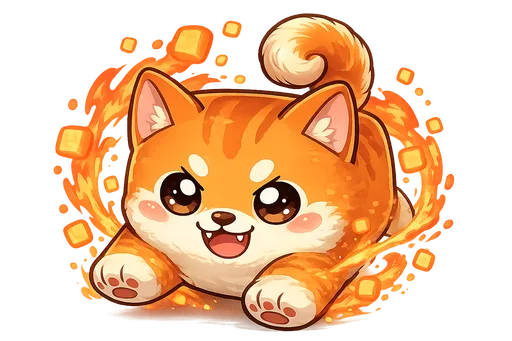
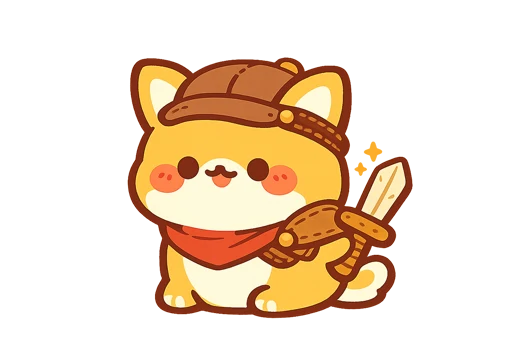
dogs: 犬系三階進化(2★→4★ 新美術)+貓第四階暫藏(EVO3_ENABLED gate)

diff --git a/public/play/index.html b/public/play/index.html
@@ -81,14 +81,14 @@
     const KEYS = ['fire', 'wind', 'thunder', 'earth', 'water'];
     const MONSTER_IMG = { water: 'art/monsters/slime_water.webp', fire: 'art/monsters/slime_fire.webp', thunder: 'art/monsters/slime_thunder.webp', earth: 'art/monsters/slime_earth.webp', wind: 'art/monsters/slime_wind.webp' };   // 舊五屬史萊姆(fallback);無對應則用 emoji 臉。圖檔放 001_website/art/monsters/(webp)
     const CARD_ART = { c03: 1, c06: 1, c19: 1, c10: 1, c12: 1, c02: 1, c05: 1, c08: 1, c09: 1, c11: 1, c13: 1, c16: 1, c20: 1, c23: 1, c27: 1, c15: 1, c18: 1, c22: 1, c26: 1, c30: 1, c31: 1, c32: 1, c33: 1, c34: 1, c35: 1, c14: 1, c17: 1, c21: 1, c24: 1, c28: 1, c01: 1, c04: 1, c07: 1, c25: 1, c29: 1, c36: 1, c37: 1, c38: 1, c39: 1, c40: 1, c41: 1, c42: 1, c43: 1, c44: 1, c45: 1, c46: 1, c47: 1, c48: 1, c49: 1, c50: 1, c51: 1, c52: 1, c53: 1, c54: 1, c55: 1, c56: 1, c57: 1, c58: 1, c59: 1, c60: 1, c61: 1, c62: 1, c63: 1, c64: 1, c65: 1, c66: 1, c67: 1, c68: 1, c69: 1, c70: 1, c71: 1, c72: 1, c73: 1, c74: 1, c75: 1, c76: 1 };   // 有角色圖的卡:犬/貓/鼠/台灣/兔/魚(c14,17,21,24,28)/鳥(c01,04,07,25,29)/妖·蜘蛛(c36-c40,1→2星換_e圖)/妖·鬼(c41-c45,1→2星換_e圖),各火水雷土風 → art/cards/<id>_thumb.webp+_full.webp;2026-08-02 加方塊怪(c66-c70,支援_e/_e2)+金屬/金錢(c71-c76,無_e/_e2,只有 base full/thumb)
-    function cardArtKey(id, size, ovEvo) { if (!id) return null; const t = getCardEvo(id, ovEvo); if (EVO3_CARDS[id] && t >= 3) return 'card_' + id + '_e3_' + size; if ((EVO2_CARDS[id] || EVO3_CARDS[id]) && t >= 2) return 'card_' + id + '_e2_' + size; if ((EVO_CARDS[id] || EVO3_CARDS[id]) && t >= 1) return 'card_' + id + '_e_' + size; return CARD_ART[id] ? ('card_' + id + '_' + size) : null; }   // 回傳 texture key(thumb/full),無圖回 null→退回 emoji;進化雜牌卡 evo≥2(EVO2_CARDS)→<id>_e2_<size>,evo≥1→<id>_e_<size>
-    function _loadCardArt(scene, ids) { (ids || []).forEach(id => { if (!id || !CARD_ART[id]) return;['thumb', 'full'].forEach(s => { const k = 'card_' + id + '_' + s; if (!scene.textures.exists(k)) scene.load.image(k, 'art/cards/' + id + '_' + s + '.webp'); }); if (EVO_CARDS[id] || EVO3_CARDS[id]) { ['thumb', 'full'].forEach(s => { const k = 'card_' + id + '_e_' + s; if (!scene.textures.exists(k)) scene.load.image(k, 'art/cards/' + id + '_e_' + s + '.webp'); }); } if (EVO2_CARDS[id] || EVO3_CARDS[id]) { ['thumb', 'full'].forEach(s => { const k = 'card_' + id + '_e2_' + s; if (!scene.textures.exists(k)) scene.load.image(k, 'art/cards/' + id + '_e2_' + s + '.webp'); }); } if (EVO3_CARDS[id]) { ['thumb', 'full'].forEach(s => { const k = 'card_' + id + '_e3_' + s; if (!scene.textures.exists(k)) scene.load.image(k, 'art/cards/' + id + '_e3_' + s + '.webp'); }); } }); }   // 按需載卡圖(戰鬥/大廳只載出戰隊);繪製端皆有 textures.exists 保護→沒載到退回 emoji;進化雜牌卡額外多載 _e 進化圖(兩形都要有),支援 evo2(EVO2_CARDS)再多載 _e2 三形
+    function cardArtKey(id, size, ovEvo) { if (!id) return null; const t = getCardEvo(id, ovEvo); if (EVO3_CARDS[id] && t >= 3) return 'card_' + id + '_e3_' + size; if ((EVO2_CARDS[id] || EVO3_CARDS[id] || EVO2_ART_CARDS[id]) && t >= 2) return 'card_' + id + '_e2_' + size; if ((EVO_CARDS[id] || EVO3_CARDS[id] || EVO2_ART_CARDS[id]) && t >= 1) return 'card_' + id + '_e_' + size; return CARD_ART[id] ? ('card_' + id + '_' + size) : null; }   // 回傳 texture key(thumb/full),無圖回 null→退回 emoji;進化雜牌卡 evo≥2(EVO2_CARDS)→<id>_e2_<size>,evo≥1→<id>_e_<size>
+    function _loadCardArt(scene, ids) { (ids || []).forEach(id => { if (!id || !CARD_ART[id]) return;['thumb', 'full'].forEach(s => { const k = 'card_' + id + '_' + s; if (!scene.textures.exists(k)) scene.load.image(k, 'art/cards/' + id + '_' + s + '.webp'); }); if (EVO_CARDS[id] || EVO3_CARDS[id] || EVO2_ART_CARDS[id]) { ['thumb', 'full'].forEach(s => { const k = 'card_' + id + '_e_' + s; if (!scene.textures.exists(k)) scene.load.image(k, 'art/cards/' + id + '_e_' + s + '.webp'); }); } if (EVO2_CARDS[id] || EVO3_CARDS[id] || EVO2_ART_CARDS[id]) { ['thumb', 'full'].forEach(s => { const k = 'card_' + id + '_e2_' + s; if (!scene.textures.exists(k)) scene.load.image(k, 'art/cards/' + id + '_e2_' + s + '.webp'); }); } if (EVO3_CARDS[id]) { ['thumb', 'full'].forEach(s => { const k = 'card_' + id + '_e3_' + s; if (!scene.textures.exists(k)) scene.load.image(k, 'art/cards/' + id + '_e3_' + s + '.webp'); }); } }); }   // 按需載卡圖(戰鬥/大廳只載出戰隊);繪製端皆有 textures.exists 保護→沒載到退回 emoji;進化雜牌卡額外多載 _e 進化圖(兩形都要有),支援 evo2(EVO2_CARDS)再多載 _e2 三形
     function _loadAllCardArt(scene) { _loadCardArt(scene, Object.keys(CARD_ART)); }   // 卡冊/編隊/合成/圖鑑=看全部卡→進場才載全部
-    function _loadCardThumbs(scene, ids) { (ids || []).forEach(id => { if (!id || !CARD_ART[id]) return; const k = 'card_' + id + '_thumb'; if (!scene.textures.exists(k)) scene.load.image(k, 'art/cards/' + id + '_thumb.webp'); if (EVO_CARDS[id] || EVO3_CARDS[id]) { const ek = 'card_' + id + '_e_thumb'; if (!scene.textures.exists(ek)) scene.load.image(ek, 'art/cards/' + id + '_e_thumb.webp'); } if (EVO2_CARDS[id] || EVO3_CARDS[id]) { const ek2 = 'card_' + id + '_e2_thumb'; if (!scene.textures.exists(ek2)) scene.load.image(ek2, 'art/cards/' + id + '_e2_thumb.webp'); } if (EVO3_CARDS[id]) { const ek3 = 'card_' + id + '_e3_thumb'; if (!scene.textures.exists(ek3)) scene.load.image(ek3, 'art/cards/' + id + '_e3_thumb.webp'); } }); }   // 只載縮圖(格子用;大圖等開詳情才補);進化雜牌卡額外多載 _e_thumb(卡冊/合成/圖鑑格子才有進化縮圖),evo2(EVO2_CARDS)再多載 _e2_thumb
+    function _loadCardThumbs(scene, ids) { (ids || []).forEach(id => { if (!id || !CARD_ART[id]) return; const k = 'card_' + id + '_thumb'; if (!scene.textures.exists(k)) scene.load.image(k, 'art/cards/' + id + '_thumb.webp'); if (EVO_CARDS[id] || EVO3_CARDS[id] || EVO2_ART_CARDS[id]) { const ek = 'card_' + id + '_e_thumb'; if (!scene.textures.exists(ek)) scene.load.image(ek, 'art/cards/' + id + '_e_thumb.webp'); } if (EVO2_CARDS[id] || EVO3_CARDS[id] || EVO2_ART_CARDS[id]) { const ek2 = 'card_' + id + '_e2_thumb'; if (!scene.textures.exists(ek2)) scene.load.image(ek2, 'art/cards/' + id + '_e2_thumb.webp'); } if (EVO3_CARDS[id]) { const ek3 = 'card_' + id + '_e3_thumb'; if (!scene.textures.exists(ek3)) scene.load.image(ek3, 'art/cards/' + id + '_e3_thumb.webp'); } }); }   // 只載縮圖(格子用;大圖等開詳情才補);進化雜牌卡額外多載 _e_thumb(卡冊/合成/圖鑑格子才有進化縮圖),evo2(EVO2_CARDS)再多載 _e2_thumb
     function _loadAllCardThumbs(scene) { _loadCardThumbs(scene, Object.keys(CARD_ART)); }
     function _ensureFullArt(scene, id, onReady, ovEvo) {   // 開卡片詳情才補「大圖」:沒載到就載,載好回呼(通常重繪);已有則不動;進化後改補 _e_full/_e2_full(與 cardArtKey 回傳的 key 對齊);🆕ovEvo=個體制傳入該個體自己的進化階,不傳=舊行為(type-level 快取)
       const t = getCardEvo(id, ovEvo);
-      const suf = (id && EVO3_CARDS[id] && t >= 3) ? '_e3_full' : (id && (EVO2_CARDS[id] || EVO3_CARDS[id]) && t >= 2) ? '_e2_full' : (id && (EVO_CARDS[id] || EVO3_CARDS[id]) && t >= 1) ? '_e_full' : '_full';
+      const suf = (id && EVO3_CARDS[id] && t >= 3) ? '_e3_full' : (id && (EVO2_CARDS[id] || EVO3_CARDS[id] || EVO2_ART_CARDS[id]) && t >= 2) ? '_e2_full' : (id && (EVO_CARDS[id] || EVO3_CARDS[id] || EVO2_ART_CARDS[id]) && t >= 1) ? '_e_full' : '_full';
       const k = (id && CARD_ART[id]) ? ('card_' + id + suf) : null;
       if (!k || scene.textures.exists(k)) return;
       scene.load.image(k, 'art/cards/' + id + suf + '.webp'); scene.load.once('complete', onReady);
@@ -340,7 +340,7 @@
       if (opt.manage) {
         gpill(CX - 118, H - 52, 110, 52, tr('⬆ 強化'), tint(elc, 0.3), elc, '#ffffff', FS.cap, () => opt.onFuse && opt.onFuse());   // 屬色漸層(上亮下深,寶可夢式)
         // 進化鈕:滿 LV20 且還能進化 → 金色漸層(可動作);未滿 LV20 / 已達進化上限 / 素材卡 → 灰階。仍可點,點了由 canEvolve 跳原因 toast
-        const _evoCap = EVO3_CARDS[cd.id] ? 3 : (EVO2_CARDS[cd.id] ? 2 : (EVO_CARDS[cd.id] ? 1 : EVO_MAX));   // 對齊 canEvolve 的上限判斷(哥布林/賊鴨/鐵機人/史萊姆醫療/牆怪系 evo2=3星,貓系 EVO3_CARDS=evo3/5星,其餘雜牌系 evo1=2星封頂)
+        const _evoCap = (EVO3_ENABLED && EVO3_CARDS[cd.id]) ? 3 : (EVO2_CARDS[cd.id] ? 2 : (EVO_CARDS[cd.id] ? 1 : EVO_MAX));   // 對齊 canEvolve 的上限判斷(哥布林/賊鴨/鐵機人/史萊姆醫療/牆怪系 evo2=3星,貓系 EVO3_CARDS=evo3/5星,其餘雜牌系 evo1=2星封頂)
         const _evoLit = mx && !MATERIAL_IDS.has(cd.id) && getCardEvo(cd.id, opt.ovEvo) < _evoCap;   // 帶 opt.ovEvo:個體檢視時金/灰狀態跟這張個體,與 canEvolve 實際判定一致(verifier 2026-09-25 抓的顯示不一致)
         gpill(CX, H - 52, 110, 52, tr('✨ 進化'), _evoLit ? 0xffe9a8 : 0xe4e0d8, _evoLit ? 0xd9932a : 0xb8b0a4, _evoLit ? '#4a2c05' : '#8a8378', FS.cap, () => opt.onEvolve && opt.onEvolve(), 'ui_evo');
         pill(CX + 118, H - 52, 110, 52, tr('✖ 關閉'), TK.surf, TK.divider, TK.ink2, FS.cap, () => opt.onClose && opt.onClose());
@@ -486,7 +486,7 @@
     // 各敵圖「角色實體」在 320 畫布的高度佔比 h 與底緣 bottom(量測值)。渲染時改以「實體高度」對齊→不同圖體型一致;bottom 用來對齊腳底基準線。魔王再乘 BOSS_MUL 刻意略大。
     const ENEMY_FIT = { grunt: { h: 0.65, bottom: 0.867 }, grunt2: { h: 0.65, bottom: 0.867 }, guard: { h: 0.69, bottom: 0.869 }, caster: { h: 0.72, bottom: 0.867 }, boss_baby: { h: 0.65, bottom: 0.867 }, boss_beg: { h: 0.69, bottom: 0.869 }, boss_nrm: { h: 0.88, bottom: 0.902 } };   // caster 略含尖帽→h 高一點
     // 🦶2026-10-14 腳底偏移表(card_*_full 實際最底不透明列 / 圖高;art/feet-offsets.json 由 scratchpad/scan-feet.cjs 產生並內嵌於此,重跑腳本 --inject 即更新):fitEnemySprite 用它讓「實際腳底」落在地面線,不再各圖留白不同而高低不齊
-    const ENEMY_FEET_PAD = /*FEET-BEGIN*/{"card_c01_full":0.059,"card_c02_e2_full":0.046,"card_c02_e3_full":0.057,"card_c02_e_full":0.058,"card_c02_full":0.063,"card_c03_full":0.026,"card_c04_full":0.047,"card_c05_e2_full":0.06,"card_c05_e3_full":0.036,"card_c05_e_full":0.064,"card_c05_full":0.061,"card_c06_full":0.032,"card_c07_full":0.044,"card_c08_e2_full":0.051,"card_c08_e3_full":0.064,"card_c08_e_full":0.047,"card_c08_full":0.049,"card_c09_e2_full":0.032,"card_c09_e3_full":0.003,"card_c09_e_full":0.046,"card_c09_full":0.038,"card_c10_full":0.018,"card_c11_e2_full":0.074,"card_c11_e3_full":0.032,"card_c11_e_full":0.093,"card_c11_full":0.057,"card_c12_full":0.018,"card_c13_full":0.018,"card_c14_full":0.018,"card_c15_full":0.018,"card_c16_full":0.012,"card_c17_full":0.015,"card_c18_full":0.009,"card_c19_full":0.018,"card_c20_full":0.018,"card_c21_full":0.173,"card_c22_full":0.021,"card_c23_full":0.018,"card_c24_full":0.021,"card_c25_full":0.053,"card_c26_full":0,"card_c27_full":0.021,"card_c28_full":0.018,"card_c29_full":0.056,"card_c30_full":0.012,"card_c31_full":0.015,"card_c32_full":0,"card_c33_full":0.015,"card_c34_full":0.018,"card_c35_full":0.023,"card_c36_e2_full":0.056,"card_c36_e_full":0.003,"card_c36_full":0.006,"card_c36_king_full":0.006,"card_c37_e2_full":0.056,"card_c37_e_full":0.003,"card_c37_full":0.006,"card_c37_king_full":0.006,"card_c38_e2_full":0.056,"card_c38_e_full":0.003,"card_c38_full":0.006,"card_c38_king_full":0.006,"card_c39_e2_full":0.056,"card_c39_e_full":0.003,"card_c39_full":0.006,"card_c39_king_full":0.006,"card_c40_e2_full":0.056,"card_c40_e_full":0.003,"card_c40_full":0.006,"card_c40_king_full":0.006,"card_c41_e2_full":0.065,"card_c41_e_full":0.056,"card_c41_full":0.059,"card_c41_king_full":0.041,"card_c42_e2_full":0.065,"card_c42_e_full":0.056,"card_c42_full":0.059,"card_c43_e2_full":0.065,"card_c43_e_full":0.056,"card_c43_full":0.059,"card_c44_e2_full":0.065,"card_c44_e_full":0.056,"card_c44_full":0.059,"card_c45_e2_full":0.065,"card_c45_e_full":0.056,"card_c45_full":0.059,"card_c46_e2_full":0.062,"card_c46_e_full":0.059,"card_c46_full":0.062,"card_c46_king_full":0.056,"card_c47_e2_full":0.062,"card_c47_e_full":0.059,"card_c47_full":0.062,"card_c47_king_full":0.056,"card_c48_e2_full":0.062,"card_c48_e_full":0.059,"card_c48_full":0.062,"card_c48_king_full":0.056,"card_c49_e2_full":0.062,"card_c49_e_full":0.059,"card_c49_full":0.062,"card_c49_king_full":0.056,"card_c50_e2_full":0.062,"card_c50_e_full":0.059,"card_c50_full":0.062,"card_c50_king_full":0.056,"card_c51_e2_full":0.029,"card_c51_e_full":0.085,"card_c51_full":0.12,"card_c51_king_full":0.029,"card_c52_e2_full":0.029,"card_c52_e_full":0.085,"card_c52_full":0.12,"card_c52_king_full":0.029,"card_c53_e2_full":0.029,"card_c53_e_full":0.085,"card_c53_full":0.12,"card_c53_king_full":0.029,"card_c54_e2_full":0.029,"card_c54_e_full":0.085,"card_c54_full":0.12,"card_c54_king_full":0.029,"card_c55_e2_full":0.029,"card_c55_e_full":0.085,"card_c55_full":0.12,"card_c55_king_full":0.029,"card_c56_e2_full":0.056,"card_c56_e_full":0.038,"card_c56_full":0.067,"card_c56_king_full":0.059,"card_c57_e2_full":0.056,"card_c57_e_full":0.038,"card_c57_full":0.059,"card_c57_king_full":0.059,"card_c58_e2_full":0.056,"card_c58_e_full":0.038,"card_c58_full":0.059,"card_c58_king_full":0.059,"card_c59_e2_full":0.056,"card_c59_e_full":0.038,"card_c59_full":0.059,"card_c59_king_full":0.059,"card_c60_e2_full":0.056,"card_c60_e_full":0.038,"card_c60_full":0.059,"card_c60_king_full":0.059,"card_c61_full":0.158,"card_c62_full":0.158,"card_c63_full":0.158,"card_c64_full":0.158,"card_c65_full":0.158,"card_c66_e2_full":0.044,"card_c66_e_full":0.05,"card_c66_full":0.053,"card_c67_e2_full":0.065,"card_c67_e_full":0.065,"card_c67_full":0.062,"card_c68_e2_full":0.059,"card_c68_e_full":0.047,"card_c68_full":0.059,"card_c69_e2_full":0.067,"card_c69_e_full":0.05,"card_c69_full":0.05,"card_c70_e2_full":0.067,"card_c70_e_full":0.062,"card_c70_full":0.062,"card_c71_full":0.062,"card_c72_full":0.059,"card_c73_full":0.05,"card_c74_full":0.047,"card_c75_full":0.038,"card_c76_full":0.029}/*FEET-END*/;
+    const ENEMY_FEET_PAD = /*FEET-BEGIN*/{"card_c01_full":0.059,"card_c02_e2_full":0.046,"card_c02_e3_full":0.057,"card_c02_e_full":0.058,"card_c02_full":0.063,"card_c03_e2_full":0.056,"card_c03_e_full":0.067,"card_c03_full":0.067,"card_c04_full":0.047,"card_c05_e2_full":0.06,"card_c05_e3_full":0.036,"card_c05_e_full":0.064,"card_c05_full":0.061,"card_c06_e2_full":0,"card_c06_e_full":0.059,"card_c06_full":0.062,"card_c07_full":0.044,"card_c08_e2_full":0.051,"card_c08_e3_full":0.064,"card_c08_e_full":0.047,"card_c08_full":0.049,"card_c09_e2_full":0.032,"card_c09_e3_full":0.003,"card_c09_e_full":0.046,"card_c09_full":0.038,"card_c10_e2_full":0.056,"card_c10_e_full":0.053,"card_c10_full":0.059,"card_c11_e2_full":0.074,"card_c11_e3_full":0.032,"card_c11_e_full":0.093,"card_c11_full":0.057,"card_c12_e2_full":0.062,"card_c12_e_full":0.065,"card_c12_full":0.059,"card_c13_full":0.018,"card_c14_full":0.018,"card_c15_full":0.018,"card_c16_full":0.012,"card_c17_full":0.015,"card_c18_full":0.009,"card_c19_e2_full":0.053,"card_c19_e_full":0.05,"card_c19_full":0.059,"card_c20_full":0.018,"card_c21_full":0.173,"card_c22_full":0.021,"card_c23_full":0.018,"card_c24_full":0.021,"card_c25_full":0.053,"card_c26_full":0,"card_c27_full":0.021,"card_c28_full":0.018,"card_c29_full":0.056,"card_c30_full":0.012,"card_c31_full":0.015,"card_c32_full":0,"card_c33_full":0.015,"card_c34_full":0.018,"card_c35_full":0.023,"card_c36_e2_full":0.056,"card_c36_e_full":0.003,"card_c36_full":0.006,"card_c36_king_full":0.006,"card_c37_e2_full":0.056,"card_c37_e_full":0.003,"card_c37_full":0.006,"card_c37_king_full":0.006,"card_c38_e2_full":0.056,"card_c38_e_full":0.003,"card_c38_full":0.006,"card_c38_king_full":0.006,"card_c39_e2_full":0.056,"card_c39_e_full":0.003,"card_c39_full":0.006,"card_c39_king_full":0.006,"card_c40_e2_full":0.056,"card_c40_e_full":0.003,"card_c40_full":0.006,"card_c40_king_full":0.006,"card_c41_e2_full":0.065,"card_c41_e_full":0.056,"card_c41_full":0.059,"card_c41_king_full":0.041,"card_c42_e2_full":0.065,"card_c42_e_full":0.056,"card_c42_full":0.059,"card_c43_e2_full":0.065,"card_c43_e_full":0.056,"card_c43_full":0.059,"card_c44_e2_full":0.065,"card_c44_e_full":0.056,"card_c44_full":0.059,"card_c45_e2_full":0.065,"card_c45_e_full":0.056,"card_c45_full":0.059,"card_c46_e2_full":0.062,"card_c46_e_full":0.059,"card_c46_full":0.062,"card_c46_king_full":0.056,"card_c47_e2_full":0.062,"card_c47_e_full":0.059,"card_c47_full":0.062,"card_c47_king_full":0.056,"card_c48_e2_full":0.062,"card_c48_e_full":0.059,"card_c48_full":0.062,"card_c48_king_full":0.056,"card_c49_e2_full":0.062,"card_c49_e_full":0.059,"card_c49_full":0.062,"card_c49_king_full":0.056,"card_c50_e2_full":0.062,"card_c50_e_full":0.059,"card_c50_full":0.062,"card_c50_king_full":0.056,"card_c51_e2_full":0.029,"card_c51_e_full":0.085,"card_c51_full":0.12,"card_c51_king_full":0.029,"card_c52_e2_full":0.029,"card_c52_e_full":0.085,"card_c52_full":0.12,"card_c52_king_full":0.029,"card_c53_e2_full":0.029,"card_c53_e_full":0.085,"card_c53_full":0.12,"card_c53_king_full":0.029,"card_c54_e2_full":0.029,"card_c54_e_full":0.085,"card_c54_full":0.12,"card_c54_king_full":0.029,"card_c55_e2_full":0.029,"card_c55_e_full":0.085,"card_c55_full":0.12,"card_c55_king_full":0.029,"card_c56_e2_full":0.056,"card_c56_e_full":0.038,"card_c56_full":0.067,"card_c56_king_full":0.059,"card_c57_e2_full":0.056,"card_c57_e_full":0.038,"card_c57_full":0.059,"card_c57_king_full":0.059,"card_c58_e2_full":0.056,"card_c58_e_full":0.038,"card_c58_full":0.059,"card_c58_king_full":0.059,"card_c59_e2_full":0.056,"card_c59_e_full":0.038,"card_c59_full":0.059,"card_c59_king_full":0.059,"card_c60_e2_full":0.056,"card_c60_e_full":0.038,"card_c60_full":0.059,"card_c60_king_full":0.059,"card_c61_full":0.158,"card_c62_full":0.158,"card_c63_full":0.158,"card_c64_full":0.158,"card_c65_full":0.158,"card_c66_e2_full":0.044,"card_c66_e_full":0.05,"card_c66_full":0.053,"card_c67_e2_full":0.065,"card_c67_e_full":0.065,"card_c67_full":0.062,"card_c68_e2_full":0.059,"card_c68_e_full":0.047,"card_c68_full":0.059,"card_c69_e2_full":0.067,"card_c69_e_full":0.05,"card_c69_full":0.05,"card_c70_e2_full":0.067,"card_c70_e_full":0.062,"card_c70_full":0.062,"card_c71_full":0.062,"card_c72_full":0.059,"card_c73_full":0.05,"card_c74_full":0.047,"card_c75_full":0.038,"card_c76_full":0.029}/*FEET-END*/;
     const BOSS_MUL = 1.1;   // 魔王體型相對雜兵的刻意放大倍率(看得出是王、又不爆出敵格)
     const DUNGEON_BG = {
       fire: { back: 'art/bg/fire_back.webp', front: 'art/bg/fire_front.webp' },
@@ -516,16 +516,16 @@
     const ROSTER = [
       { id: 'c01', name: '曦曦', el: 'fire', race: 'yokai', rank: 'jonin', atk: 300, hp: 375, rcv: 38, attrs: ['fire'] },
       { id: 'c02', name: '暖暖', el: 'fire', race: 'human', rank: 'chunin', atk: 192, hp: 240, rcv: 24, attrs: ['fire'] },
-      { id: 'c03', name: '焰焰', el: 'fire', race: 'human', rank: 'jonin', atk: 120, hp: 150, rcv: 15, attrs: ['fire'] },
+      { id: 'c03', name: '焰焰', el: 'fire', race: 'human', rank: 'chunin', atk: 120, hp: 150, rcv: 15, attrs: ['fire'] },
       { id: 'c04', name: '漣漣', el: 'water', race: 'yokai', rank: 'jonin', atk: 125, hp: 525, rcv: 100, attrs: ['water'] },
       { id: 'c05', name: '露露', el: 'water', race: 'human', rank: 'chunin', atk: 80, hp: 336, rcv: 64, attrs: ['water'] },
-      { id: 'c06', name: '潑潑', el: 'water', race: 'human', rank: 'jonin', atk: 50, hp: 210, rcv: 40, attrs: ['water'] },
+      { id: 'c06', name: '潑潑', el: 'water', race: 'human', rank: 'chunin', atk: 50, hp: 210, rcv: 40, attrs: ['water'] },
       { id: 'c07', name: '嗶嗶', el: 'thunder', race: 'yokai', rank: 'jonin', atk: 275, hp: 300, rcv: 63, attrs: ['thunder'] },
       { id: 'c08', name: '霹霹', el: 'thunder', race: 'human', rank: 'chunin', atk: 176, hp: 192, rcv: 40, attrs: ['thunder'] },
       { id: 'c09', name: '礫礫', el: 'earth', race: 'human', rank: 'chunin', atk: 64, hp: 576, rcv: 32, attrs: ['earth'] },
-      { id: 'c10', name: '岩岩', el: 'earth', race: 'human', rank: 'jonin', atk: 40, hp: 360, rcv: 20, attrs: ['earth'] },
+      { id: 'c10', name: '岩岩', el: 'earth', race: 'human', rank: 'chunin', atk: 40, hp: 360, rcv: 20, attrs: ['earth'] },
       { id: 'c11', name: '飄飄', el: 'wind', race: 'human', rank: 'chunin', atk: 122, hp: 355, rcv: 40, attrs: ['wind'] },
-      { id: 'c12', name: '颯颯', el: 'wind', race: 'human', rank: 'jonin', atk: 76, hp: 222, rcv: 25, attrs: ['wind'] },
+      { id: 'c12', name: '颯颯', el: 'wind', race: 'human', rank: 'chunin', atk: 76, hp: 222, rcv: 25, attrs: ['wind'] },
       /* ── 擴充:補滿五屬階梯 + 四星(kage ★4)SSR 層,共 30 張;★4 靈獸=五屬神主角 ── */
       { id: 'c13', name: '烘烘', el: 'fire', race: 'yokai', rank: 'jonin', atk: 120, hp: 150, rcv: 15, attrs: ['fire'] },
       { id: 'c14', name: '燦燦', el: 'fire', race: 'beast', rank: 'jonin', atk: 192, hp: 240, rcv: 24, attrs: ['fire'] },
@@ -533,7 +533,7 @@
       { id: 'c16', name: '沁沁', el: 'water', race: 'yokai', rank: 'jonin', atk: 50, hp: 210, rcv: 40, attrs: ['water'] },
       { id: 'c17', name: '澄澄', el: 'water', race: 'beast', rank: 'jonin', atk: 80, hp: 336, rcv: 64, attrs: ['water'] },
       { id: 'c18', name: '武陵', el: 'water', race: 'beast', rank: 'kage', atk: 150, hp: 625, rcv: 120, attrs: ['water'], hero: true },
-      { id: 'c19', name: '轟轟', el: 'thunder', race: 'human', rank: 'jonin', atk: 110, hp: 120, rcv: 25, attrs: ['thunder'] },
+      { id: 'c19', name: '轟轟', el: 'thunder', race: 'human', rank: 'chunin', atk: 110, hp: 120, rcv: 25, attrs: ['thunder'] },
       { id: 'c20', name: '滋滋', el: 'thunder', race: 'yokai', rank: 'jonin', atk: 110, hp: 120, rcv: 25, attrs: ['thunder'] },
       { id: 'c21', name: '嘶嘶', el: 'thunder', race: 'beast', rank: 'jonin', atk: 176, hp: 192, rcv: 40, attrs: ['thunder'] },
       { id: 'c22', name: '太魯閣', el: 'thunder', race: 'beast', rank: 'kage', atk: 330, hp: 355, rcv: 75, attrs: ['thunder'], hero: true },
@@ -627,6 +627,8 @@
     const BLOCK_EVO2 = { c66: '火方塊王', c67: '水方塊王', c68: '雷方塊王', c69: '土方塊王', c70: '風方塊王' };   // 方塊怪系 2★→3★再進化名表:進化階≥2 → 顯示「◯方塊王」+ <id>_e2_ 圖(3星,2026-08-02 加)
     const EVO2_CARDS = Object.assign({}, GHOST_EVO2, WITCH_EVO2, SPIDER_EVO2, YAKUSHI_EVO2, WALL_EVO2, BLOCK_EVO2);   // 合併「可進到 evo2(3星)」名表:目前哥布林系、賊鴨系、鐵機人系、史萊姆醫療系、牆怪系、方塊怪系支援,別的系要開 evo2 往這加
     const EVO3_CARDS = { c02: 1, c05: 1, c08: 1, c09: 1, c11: 1 };   // 貓系(2★chunin)可進到 evo3(5★)名單:只當 cap/art 開關用(值非名字,貓不換名只換圖),cardArtKey/_loadCardArt/_loadCardThumbs/_ensureFullArt/evoCap 都要吃這張表;不進 cardName(貓進化不改名)
+    const EVO3_ENABLED = false;   // 🙈貓第四階(5★)暫時隱藏(2026-10-15 老闆拍板):false=貓 evoCap 落回 EVO_MAX(2,停在 4★);已進化到 evo3 的個體不受影響(圖/等級上限/隊長倍率照舊,cardArtKey 等美術條件不看這個旗標)。貓第四階暫時隱藏,開回來改 true 即可(後端 gamedata.ts EVO3_ENABLED 要同步)
+    const EVO2_ART_CARDS = { c03: 1, c06: 1, c19: 1, c10: 1, c12: 1 };   // 🐶狗系(2★chunin)三階進化美術開關(2026-10-15):evo1→<id>_e_ 圖、evo2→<id>_e2_ 圖,狗進化不改名(所以不能放 EVO_CARDS/EVO2_CARDS——那兩張表值是改名,且 EVO_CARDS 會影響轉蛋池);cap 不看這張表(沒進任何表→落回 EVO_MAX=2),只管 cardArtKey/_loadCardArt/_loadCardThumbs/_ensureFullArt 解析 _e/_e2 圖
     function cardName(id, ovEvo) { const c = ROSTER.find(x => x.id === id) || {}; const t = getCardEvo(id, ovEvo); if (t >= 2 && EVO2_CARDS[id]) return tr(EVO2_CARDS[id]); return tr((EVO_CARDS[id] && t >= 1) ? EVO_CARDS[id] : c.name); }   // 卡片顯示名字統一入口(evo2 名表優先於 evo1 名表,再 fallback ROSTER.name);tr() 包在回傳處=集中式,涵蓋全部呼叫點
     // CONFIG → battle-core.js
     const KATA = ['一之型', '二之型', '三之型', '四之型', '五之型', '禁術', '奧義'];   // LV1~7(簡單數字,日文漢字通用)
@@ -959,7 +961,7 @@
       const f = STAT_FAM[fam], e = STAT_EL[el]; if (!f || !e) return null; const s = [0, 1, 2].map(i => (f[i] + e[i]) / 2), sum = s[0] + s[1] + s[2], sh = s.map(x => x / sum);
       return { atk: Math.round(sh[0] * STAT_BUD), hp: Math.round(sh[1] * STAT_BUD / STAT_WT.hp / 10) * 10, rcv: Math.round(sh[2] * STAT_BUD / STAT_WT.rcv) };
     }
-    ROSTER.forEach(c => { const fam = TW_IDS.has(c.id) ? 'taiwan' : CARD_FAMILY[c.id]; if (!fam) return; const s = famStat(fam, c.el); if (!s) return; c.atk = s.atk; c.hp = s.hp; c.rcv = s.rcv; if (!TW_IDS.has(c.id) && fam !== 'cat') c.rank = 'jonin'; });   // 家族全 ★3(jonin)+ 重算三圍;台灣三圍仍走統一上限但維持 kage(★4)不降階(2026-07-15);🐱貓系四階進化(2026-08-25)base 降 chunin(★2)不可被這裡蓋回 jonin,故排除 cat
+    ROSTER.forEach(c => { const fam = TW_IDS.has(c.id) ? 'taiwan' : CARD_FAMILY[c.id]; if (!fam) return; const s = famStat(fam, c.el); if (!s) return; c.atk = s.atk; c.hp = s.hp; c.rcv = s.rcv; if (!TW_IDS.has(c.id) && fam !== 'cat' && fam !== 'dog') c.rank = 'jonin'; });   // 家族全 ★3(jonin)+ 重算三圍;台灣三圍仍走統一上限但維持 kage(★4)不降階(2026-07-15);🐱貓系四階進化(2026-08-25)base 降 chunin(★2)不可被這裡蓋回 jonin,故排除 cat
     const FAMILY_ACTIVE = {   // 家族主動技(套用到該卡屬性);效果見 _familyActive;🆕2026-09-25 批4 iconKey=自製圖(art/ui/sk_*.webp),icon(emoji)保留當 fallback
       cat: { name: '疾風連擊', cd: 4, icon: '🐱', iconKey: 'sk_cat', desc: '對單敵 攻×1 連打 N 下(吃相剋,N 隨進化階 2→5)' },
       dog: { name: '群擊', cd: 5, icon: '🐶', iconKey: 'sk_dog', desc: '對全體敵 攻×2(吃相剋)' },
@@ -1894,7 +1896,7 @@
       if (!c) return { ok: false, msg: tr('卡片資料不存在') };
       if (MATERIAL_IDS.has(id)) return { ok: false, msg: tr('素材卡不可進化(拿去進化別的卡)') };   // 純素材:不給練成戰力卡
       // 單一 cap:👺哥布林系、🦆賊鴨系、🤖鐵機人系(原蜘蛛)、🩹史萊姆醫療系(原藥師)、🧱牆怪系 1★→2★→3★(cap 2);🐱貓系(EVO3_CARDS) 2★→3★→4★→5★(cap 3);一般卡走 EVO_MAX。與 line 328 _evoCap、後端 evolve.ts evoCap 同一套,別再用 else-if(EVO_CARDS 含哥布林,t=1 會被誤擋)
-      const evoCap = EVO3_CARDS[id] ? 3 : (EVO2_CARDS[id] ? 2 : (EVO_CARDS[id] ? 1 : EVO_MAX));
+      const evoCap = (EVO3_ENABLED && EVO3_CARDS[id]) ? 3 : (EVO2_CARDS[id] ? 2 : (EVO_CARDS[id] ? 1 : EVO_MAX));
       if (t >= evoCap) return { ok: false, msg: tr('已達進化上限') };
       const needLv = maxLvForCard(id, t);   // per-star 門檻(spec-progression-economy.md §1):要練到「當前星」的上限才能進化(1★要LV20、2★要LV40…)
       if (getCardLv(id, ovLv) < needLv) return { ok: false, msg: tr('需先練滿 Lv.{n}', { n: needLv }) };
